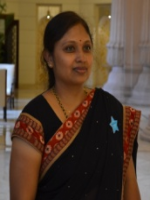
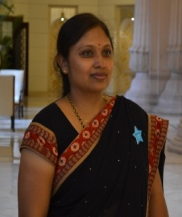
profile

diff --git a/biet_web/templates/department/UG/CS/home.html b/biet_web/templates/department/UG/CS/home.html
@@ -312,7 +312,7 @@
                                                                     <!-- <a href="#"> -->
                                                                     <img class="img-thumbnail"
                                                                         src="{{faculty_data.image.url}}" alt=""
-                                                                        style="width:360px;height:270px;">
+                                                                        style="width:300px;height:320px;">
                                                                     <!-- </a> -->
                                                                     <div class="desc">
                                                                         <h5>{{faculty_data.name}}</h5>
@@ -342,7 +342,7 @@
                                                                 <!-- <a href="#"> -->
                                                                 <img class="img-thumbnail"
                                                                     src="{{faculty_data.image.url}}" alt=""
-                                                                    style="width:360px;height:270px;">
+                                                                    style="width:360px;height:300px;">
                                                                 <!-- </a> -->
                                                                 <div class="desc">
                                                                     <h5>{{faculty_data.name}}</h5>
